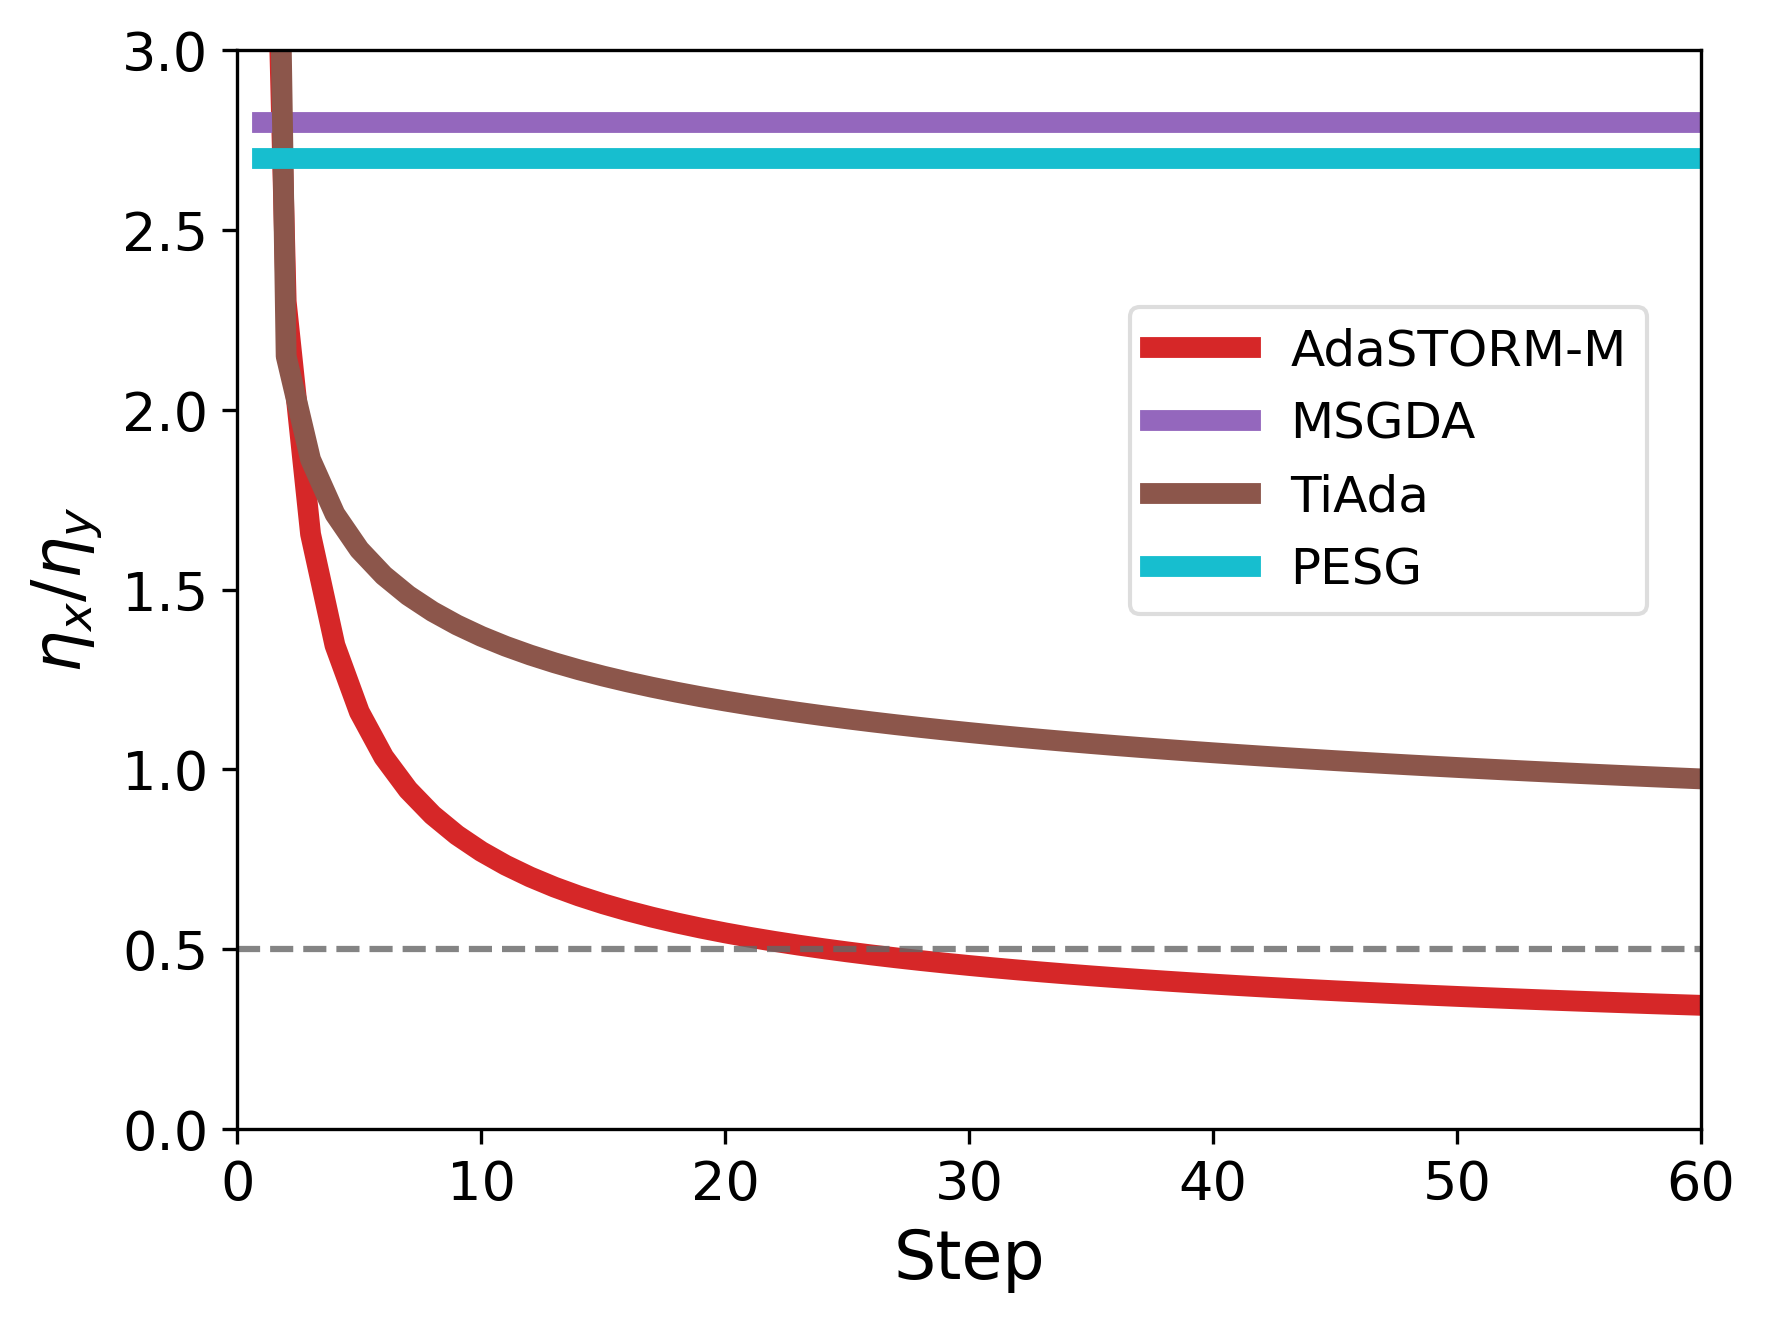
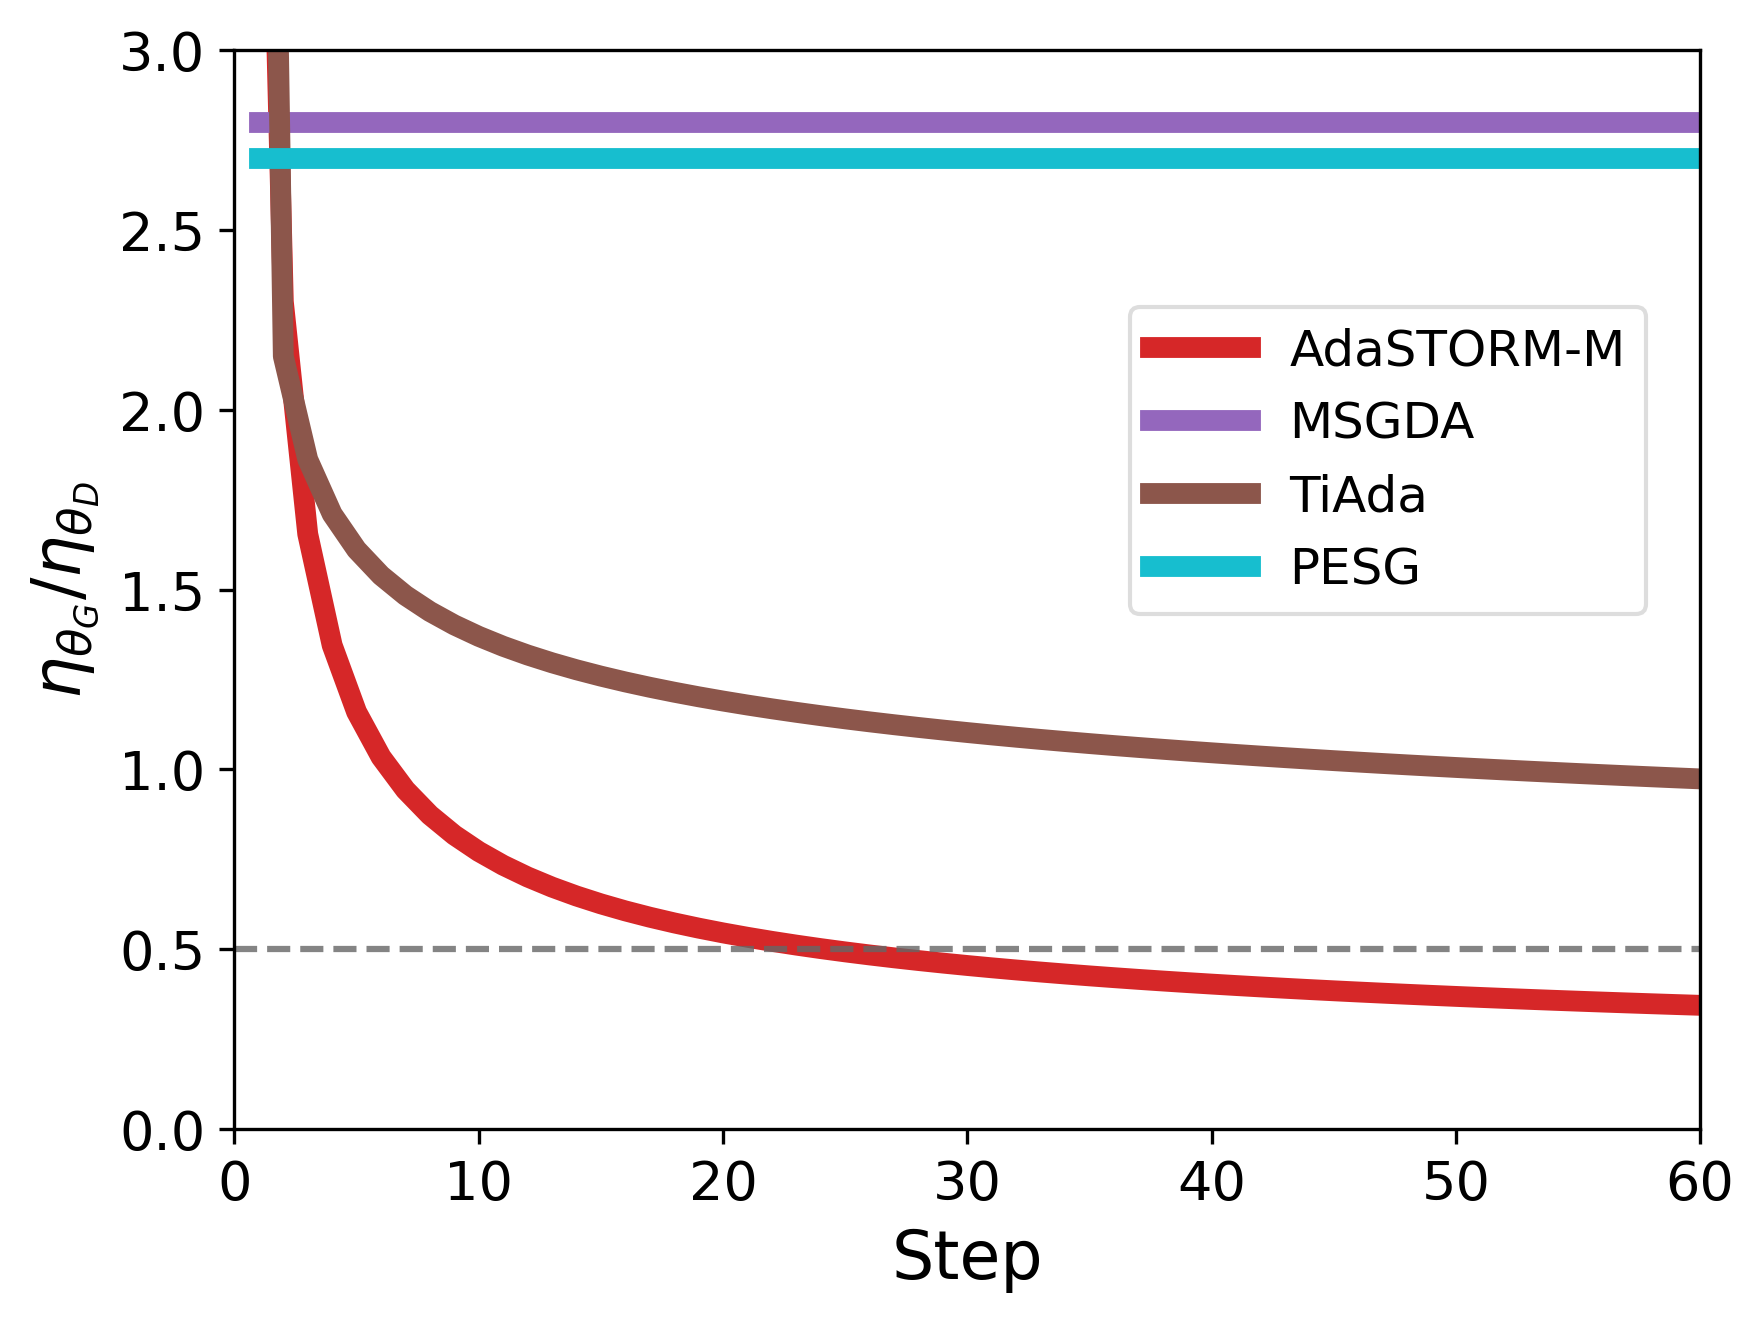
modify axis name

diff --git a/example/opts.py b/example/opts.py
@@ -186,6 +186,7 @@ class TiAda2Var:
         eps=1e-10,
         alpha=0.5,
         compute_effective_stepsize=False,
+        mode="ratio",
     ):
         """
         Two-variable toy TiAda optimizer (min over x, max over y).
@@ -206,6 +207,8 @@ class TiAda2Var:
         self.alpha = float(alpha)
         self.compute_effective_stepsize = bool(compute_effective_stepsize)
 
+        self.mode = mode
+
         self.step_t = 0
         # Per-variable accumulators of squared gradients
         self.sum_x = torch.zeros_like(x)
@@ -215,7 +218,7 @@ class TiAda2Var:
         self.effective_stepsize_x = None
         self.effective_stepsize_y = None
 
-    def _calc_ratio_xy(self, mode="ratio"):  # options: "step" or "ratio"
+    def _calc_ratio_xy(self):  # options: "step" or "ratio"
         """Compute scalar balance ratios for x and y based on total accumulators.
 
         ratio_x = total_x^alpha / max(total_x^alpha, total_y^alpha)
@@ -228,12 +231,12 @@ class TiAda2Var:
             # Convert totals to alpha-scaled magnitudes
             txa = (
                 total_x.pow(self.alpha - 0.1)
-                if mode == "step"
+                if self.mode == "step"
                 else total_x.pow(self.alpha - 0.05)
             )
             tya = (
                 total_y.pow(self.alpha + 0.1)
-                if mode == "step"
+                if self.mode == "step"
                 else total_y.pow(self.alpha + 0.05)
             )
             denom = torch.maximum(txa, tya)

diff --git a/example/plot.py b/example/plot.py
@@ -278,8 +278,8 @@ def simulate_and_plot(optimizers):
 
     ax.set_xlim(*X_LIM)
     ax.set_ylim(*Y_LIM)
-    ax.set_xlabel("x", fontsize=16)
-    ax.set_ylabel("y", fontsize=16)
+    ax.set_xlabel("$\\theta_G$", fontsize=16)
+    ax.set_ylabel("$\\theta_D$", fontsize=16)
     ax.tick_params(axis="both", labelsize=13)
     # ax.set_title("(a) trajectory")
     ax.legend(loc="upper left", framealpha=0.85, fontsize=10)
@@ -324,7 +324,7 @@ def plot_ratio_comparison(ratio_data, save_path="plot_ratio.png"):
     plt.axhline(0.5, color="#666666", linestyle="--", linewidth=1.5, alpha=0.8)
     plt.xlabel("Step")
     # Raw string for TeX label
-    plt.ylabel(r"$\eta_x / \eta_y$")
+    plt.ylabel(r"$\eta_{\theta_G} / \eta_{\theta_D}$")
     # Set y-axis range as requested
     plt.ylim(0, 3)
     # Truncate x-axis to 0–60 as requested (show first 60 steps)
@@ -410,7 +410,7 @@ if __name__ == "__main__":
         },
         {
             "name": "TiAda",
-            "ctor": lambda x, y: TiAda2Var(x, y, lr_x=25, lr_y=25 / 5, alpha=0.5),
+            "ctor": lambda x, y: TiAda2Var(x, y, lr_x=25, lr_y=25 / 5, alpha=0.5, mode="ratio"), # mode "ratio" or "step"
             "color": "#8c564b",  # brown
         },
         {
